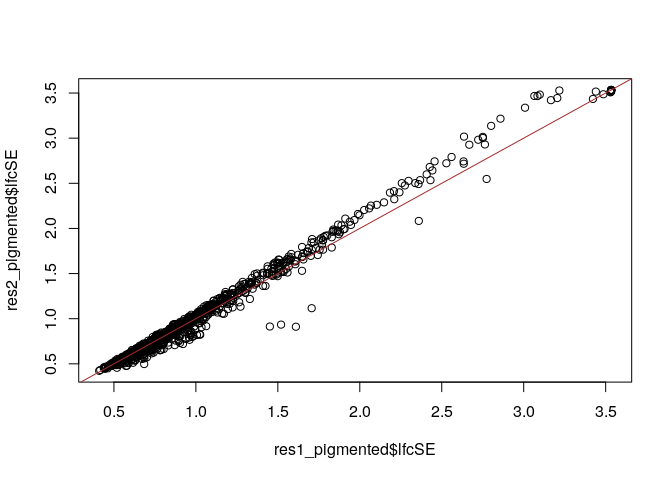
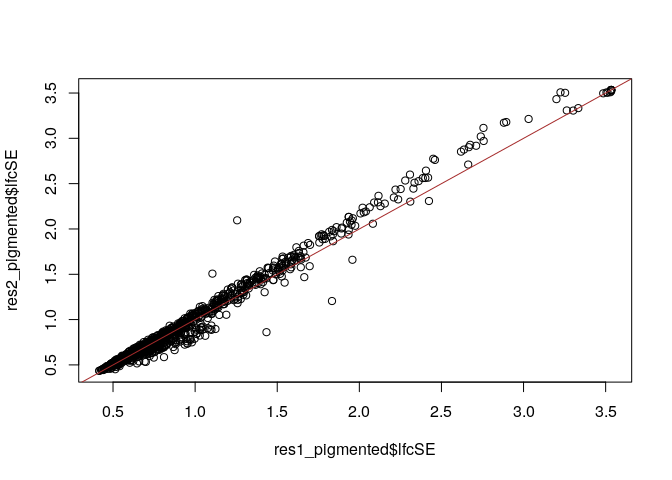
fix figure md paths

diff --git a/DESeq2_contrasts.md b/DESeq2_contrasts.md
@@ -54,19 +54,19 @@ We can then obtain the results for the effect of sun:
     ## log2 fold change (MLE): condition_sun_vs_shade effect 
     ## Wald test p-value: condition_sun_vs_shade effect 
     ## DataFrame with 1000 rows and 6 columns
-    ##            baseMean log2FoldChange     lfcSE      stat     pvalue      padj
-    ##           <numeric>      <numeric> <numeric> <numeric>  <numeric> <numeric>
-    ## gene1       5.63761      -2.358432  1.401851 -1.682370  0.0924972  0.207690
-    ## gene2      46.34294       1.160035  0.604168  1.920053  0.0548512  0.138131
-    ## gene3       5.34045       2.697561  1.654980  1.629966  0.1031088  0.223748
-    ## gene4       7.91953       0.230896  1.163678  0.198419  0.8427172  0.907254
-    ## gene5       7.08720      -0.235036  1.122997 -0.209293  0.8342191  0.903081
-    ## ...             ...            ...       ...       ...        ...       ...
-    ## gene996    0.700498      -1.775520  3.580338 -0.495908 0.61995910 0.7621804
-    ## gene997    0.000000             NA        NA        NA         NA        NA
-    ## gene998  195.554981      -1.443498  0.490371 -2.943682 0.00324333 0.0141713
-    ## gene999   21.786830       0.397908  0.774012  0.514085 0.60719278 0.7570398
-    ## gene1000   0.000000             NA        NA        NA         NA        NA
+    ##           baseMean log2FoldChange     lfcSE      stat      pvalue       padj
+    ##          <numeric>      <numeric> <numeric> <numeric>   <numeric>  <numeric>
+    ## gene1     29.02282      3.1546346  0.859398  3.670751 0.000241839 0.00125783
+    ## gene2     29.58346      1.9194327  0.689539  2.783646 0.005375161 0.01774566
+    ## gene3      4.13383     -3.6811860  1.714557 -2.147019 0.031791776 0.07455452
+    ## gene4    152.41603     -0.6757401  0.380571 -1.775597 0.075799334 0.15078885
+    ## gene5     20.27680      0.0799093  0.772992  0.103377 0.917664039 0.93678204
+    ## ...            ...            ...       ...       ...         ...        ...
+    ## gene996    5.85167       0.357406   1.35407  0.263949   0.7918196  0.8428722
+    ## gene997    6.44729      -0.212331   1.14858 -0.184864   0.8533357  0.8946572
+    ## gene998    7.07135      -2.797845   1.22080 -2.291816   0.0219163  0.0545563
+    ## gene999    3.24602       3.969345   2.47222  1.605577   0.1083669  0.1978227
+    ## gene1000   1.57966      -2.108792   2.52256 -0.835972   0.4031705  0.5424158
 
 The above is a simple way to obtain the results of interest. But it is
 worth understanding how DESeq is getting to these results by looking at
@@ -146,7 +146,7 @@ And we can check that the results are the same:
 
     plot(res1$log2FoldChange, res2$log2FoldChange)
 
-![](DESeq_contrasts_files/figure-markdown_strict/unnamed-chunk-9-1.png)
+![](DESeq2_contrasts_files/figure-markdown_strict/unnamed-chunk-9-1.png)
 
 Recoding the design - no intercept
 ----------------------------------
@@ -225,7 +225,7 @@ Again, the results are essentially the same:
 
     plot(res1$log2FoldChange, res3$log2FoldChange)
 
-![](DESeq_contrasts_files/figure-markdown_strict/unnamed-chunk-12-1.png)
+![](DESeq2_contrasts_files/figure-markdown_strict/unnamed-chunk-12-1.png)
 
 In theory there’s no difference between these two ways of defining our
 design. The design with an intercept is more common, but for the
@@ -341,11 +341,11 @@ And we can now define any contrasts we want:
     # check they are identical
     plot(res1_pink_white$log2FoldChange, res2_pink_white$log2FoldChange)
 
-![](DESeq_contrasts_files/figure-markdown_strict/unnamed-chunk-17-1.png)
+![](DESeq2_contrasts_files/figure-markdown_strict/unnamed-chunk-17-1.png)
 
     plot(res1_pink_yellow$log2FoldChange, res2_pink_yellow$log2FoldChange)
 
-![](DESeq_contrasts_files/figure-markdown_strict/unnamed-chunk-17-2.png)
+![](DESeq2_contrasts_files/figure-markdown_strict/unnamed-chunk-17-2.png)
 
 We could even say that we want to find genes that generally differ
 between pigmented and non-pigmented samples:
@@ -380,15 +380,15 @@ We could have created a mock group in our column data:
     ## DataFrame with 9 rows and 3 columns
     ##           colour sizeFactor pigmented
     ##         <factor>  <numeric>  <factor>
-    ## sample1   pink     0.927209     TRUE 
-    ## sample2   pink     0.925016     TRUE 
-    ## sample3   pink     0.895999     TRUE 
-    ## sample4   yellow   0.919428     TRUE 
-    ## sample5   yellow   0.895894     TRUE 
-    ## sample6   yellow   1.182511     TRUE 
-    ## sample7   white    1.140031     FALSE
-    ## sample8   white    1.151135     FALSE
-    ## sample9   white    1.168974     FALSE
+    ## sample1   pink     0.950750     TRUE 
+    ## sample2   pink     0.981239     TRUE 
+    ## sample3   pink     0.903718     TRUE 
+    ## sample4   yellow   0.976772     TRUE 
+    ## sample5   yellow   0.914177     TRUE 
+    ## sample6   yellow   1.178293     TRUE 
+    ## sample7   white    1.161341     FALSE
+    ## sample8   white    1.090987     FALSE
+    ## sample9   white    1.118380     FALSE
 
 and then re-run DESeq with a new design:
 
@@ -422,11 +422,11 @@ those groups.
 
     plot(res1_pigmented$log2FoldChange, res2_pigmented$log2FoldChange); abline(0, 1, col = "brown")
 
-![](DESeq_contrasts_files/figure-markdown_strict/unnamed-chunk-21-1.png)
+![](DESeq2_contrasts_files/figure-markdown_strict/unnamed-chunk-21-1.png)
 
     plot(res1_pigmented$lfcSE, res2_pigmented$lfcSE); abline(0, 1, col = "brown")
 
-![](DESeq_contrasts_files/figure-markdown_strict/unnamed-chunk-21-2.png)
+![](DESeq2_contrasts_files/figure-markdown_strict/unnamed-chunk-21-2.png)
 
 Two factors with interaction
 ============================
@@ -503,7 +503,7 @@ Pink vs White (in the shade):
     res2 <- results(dds, contrast = list("colour_pink_vs_white"))
     plot(res1$log2FoldChange, res2$log2FoldChange)
 
-![](DESeq_contrasts_files/figure-markdown_strict/unnamed-chunk-25-1.png)
+![](DESeq2_contrasts_files/figure-markdown_strict/unnamed-chunk-25-1.png)
 
 Pink vs White (in the sun):
 
@@ -512,7 +512,7 @@ Pink vs White (in the sun):
                                            "colourpink.conditionsun")))
     plot(res1$log2FoldChange, res2$log2FoldChange)
 
-![](DESeq_contrasts_files/figure-markdown_strict/unnamed-chunk-26-1.png)
+![](DESeq2_contrasts_files/figure-markdown_strict/unnamed-chunk-26-1.png)
 
 Sun vs Shade (for whites):
 
@@ -520,7 +520,7 @@ Sun vs Shade (for whites):
     res2 <- results(dds, contrast = list(c("condition_sun_vs_shade")))
     plot(res1$log2FoldChange, res2$log2FoldChange)
 
-![](DESeq_contrasts_files/figure-markdown_strict/unnamed-chunk-27-1.png)
+![](DESeq2_contrasts_files/figure-markdown_strict/unnamed-chunk-27-1.png)
 
 Sun vs Shade (for pinks):
 
@@ -528,7 +528,7 @@ Sun vs Shade (for pinks):
     res2 <- results(dds, contrast = list(c("condition_sun_vs_shade", "colourpink.conditionsun")))
     plot(res1$log2FoldChange, res2$log2FoldChange)
 
-![](DESeq_contrasts_files/figure-markdown_strict/unnamed-chunk-28-1.png)
+![](DESeq2_contrasts_files/figure-markdown_strict/unnamed-chunk-28-1.png)
 
 Interaction between colour and condition (i.e. do pinks and whites
 respond differently to the sun?):
@@ -538,7 +538,7 @@ respond differently to the sun?):
     res2 <- results(dds, contrast = list("colourpink.conditionsun"))
     plot(res1$log2FoldChange, res2$log2FoldChange)
 
-![](DESeq_contrasts_files/figure-markdown_strict/unnamed-chunk-29-1.png)
+![](DESeq2_contrasts_files/figure-markdown_strict/unnamed-chunk-29-1.png)
 
 In conclusion, although we can define these contrasts using DESeq
 coefficient names, it is somewhat more explicit (and perhaps intuitive?)
